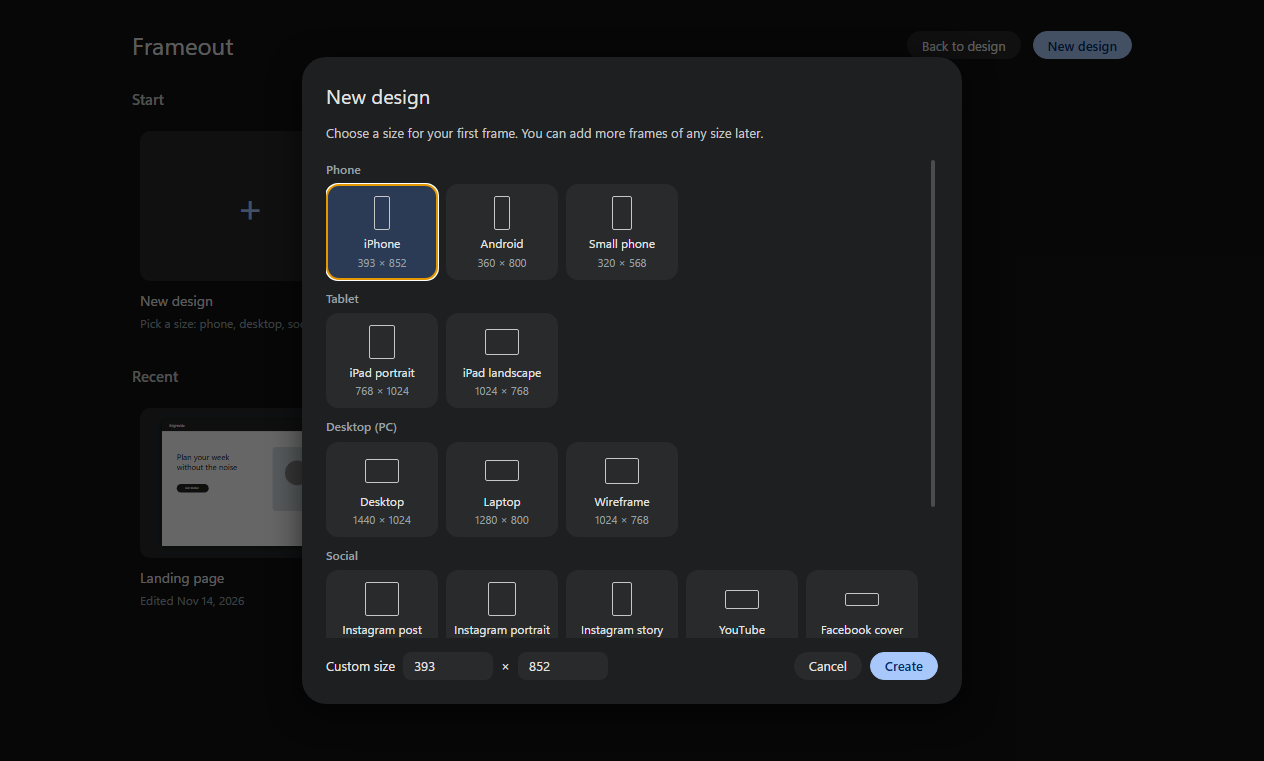
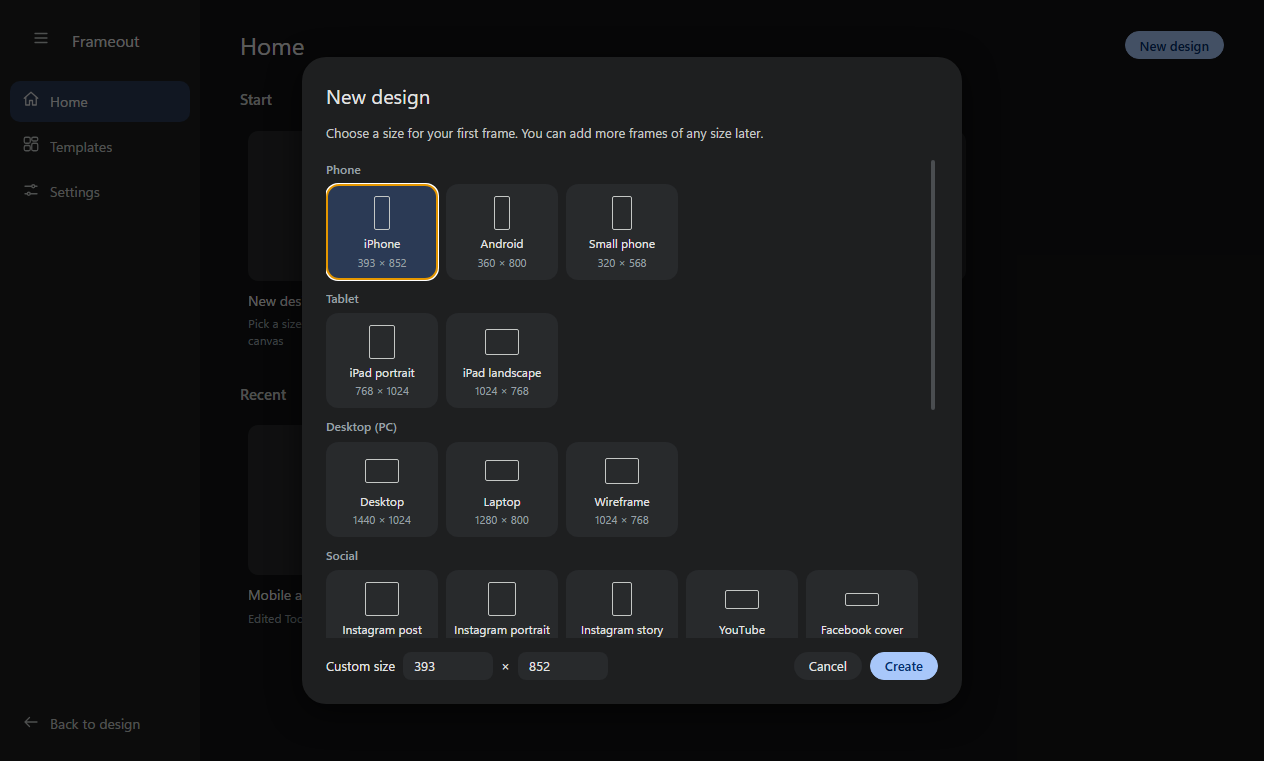
fix: Frameout 1.0.18
New line icons for Home, Templates and Settings; the New design window also lists templates; README now shows the home screen, templates and settings pictures.

diff --git a/renderer/app.js b/renderer/app.js
@@ -12,6 +12,17 @@ const h = (tag, props = {}, ...kids) => {
 };
 const NS = 'http://www.w3.org/2000/svg';
 const sv = (tag, attrs = {}) => { const e = document.createElementNS(NS, tag); for (const [k, v] of Object.entries(attrs)) e.setAttribute(k, v); return e; };
+const ICONS = {
+  home: '<path d="M3 11l9-8 9 8"/><path d="M5 10v10h5v-6h4v6h5V10"/>',
+  templates: '<rect x="3" y="3" width="8" height="8" rx="2"/><rect x="13" y="3" width="8" height="5" rx="2"/><rect x="13" y="11" width="8" height="10" rx="2"/><rect x="3" y="14" width="8" height="7" rx="2"/>',
+  settings: '<path d="M4 7h9M17 7h3M4 17h3M11 17h9"/><circle cx="15" cy="7" r="2"/><circle cx="9" cy="17" r="2"/>',
+  menu: '<path d="M4 6h16M4 12h16M4 18h16"/>',
+  back: '<path d="M10 6l-6 6 6 6M4 12h16"/>',
+  plus: '<path d="M12 5v14M5 12h14"/>',
+  open: '<path d="M3 7a2 2 0 0 1 2-2h4l2 2h8a2 2 0 0 1 2 2v8a2 2 0 0 1-2 2H5a2 2 0 0 1-2-2z"/>',
+  example: '<rect x="3" y="4" width="7" height="14" rx="2"/><rect x="14" y="6" width="7" height="14" rx="2"/><path d="M10 11h4"/>',
+};
+const icon = (name, size = 18) => { const s = sv('svg', { viewBox: '0 0 24 24', width: size, height: size, fill: 'none', stroke: 'currentColor', 'stroke-width': 1.7, 'stroke-linecap': 'round', 'stroke-linejoin': 'round', 'aria-hidden': 'true' }); const d = new DOMParser().parseFromString('<svg xmlns="' + NS + '">' + ICONS[name] + '</svg>', 'image/svg+xml').documentElement; for (const n of [...d.childNodes]) s.append(document.importNode(n, true)); return s; };
 const uid = () => Math.random().toString(36).slice(2, 8);
 const clamp = (v, a, b) => Math.min(b, Math.max(a, v));
 const toast = (m) => { const t = h('div', { class: 'toast', text: m }); document.body.append(t); setTimeout(() => t.remove(), 2400); };
@@ -465,7 +476,7 @@ function tpl(title, specs) {
   const out = doc; doc = keep; return out;
 }
 function docThumb(d) { const keep = doc; let s = ''; try { doc = d; const fr = d.items.find((i) => i.type === 'frame'); const r = exportSvgString(fr || null); s = r ? r.str : ''; } catch (e) { /* no picture */ } doc = keep; return s; }
-function newCard(icon, name, sub, fn) { return h('button', { class: 'hcard', onclick: fn }, h('div', { class: 'thumb plus' }, h('span', { text: icon })), h('div', { class: 'hname', text: name }), h('div', { class: 'hsub', text: sub })); }
+function newCard(ic, name, sub, fn) { return h('button', { class: 'hcard', onclick: fn }, h('div', { class: 'thumb plus' }, icon(ic, 40)), h('div', { class: 'hname', text: name }), h('div', { class: 'hsub', text: sub })); }
 function homeHome() {
   const recent = readRecent();
   const grid = h('div', { class: 'home-grid' });
@@ -475,9 +486,9 @@ function homeHome() {
       h('button', { class: 'btn hrm', title: 'Remove from recent', onclick: (ev) => { ev.stopPropagation(); removeRecent(e.id); }, text: 'Remove' })));
   }
   return [h('h2', { text: 'Start' }), h('div', { class: 'home-row' },
-    newCard('+', 'New design', 'Pick a size: phone, desktop, social, canvas', showSizePicker),
-    newCard('↑', 'Open file', 'A .frameout file from your computer', () => openDoc()),
-    newCard('▣', 'Example', 'Two linked mobile screens to explore', () => startDesign(sampleDoc()))),
+    newCard('plus', 'New design', 'Pick a size: phone, desktop, social, canvas', showSizePicker),
+    newCard('open', 'Open file', 'A .frameout file from your computer', () => openDoc()),
+    newCard('example', 'Example', 'Two linked mobile screens to explore', () => startDesign(sampleDoc()))),
   h('h2', { text: 'Recent' }), recent.length ? grid : h('div', { class: 'muted', style: 'padding:8px 2px', text: 'Designs you work on appear here, with a small picture, and are kept on this computer.' })];
 }
 function homeTemplates() {
@@ -499,12 +510,12 @@ function homeSettings() {
 }
 function renderHome() {
   home.textContent = '';
-  const tabs = [['home', 'Home', '⌂'], ['templates', 'Templates', '▦'], ['settings', 'Settings', '⚙']];
+  const tabs = [['home', 'Home', 'home'], ['templates', 'Templates', 'templates'], ['settings', 'Settings', 'settings']];
   const shut = getSet('sideShut');
   const side = h('nav', { class: 'home-side' + (shut ? ' shut' : '') },
-    h('div', { class: 'home-logo' }, h('button', { class: 'htab hbar', title: shut ? 'Open sidebar' : 'Close sidebar', 'aria-label': 'Toggle sidebar', onclick: () => { putSet('sideShut', !shut); renderHome(); } }, h('span', { class: 'hic', text: '☰' })), h('span', { class: 'hlabel', text: 'Frameout' })),
-    tabs.map(([id, name, ic]) => h('button', { class: 'htab' + (homeTab === id ? ' on' : ''), title: name, onclick: () => { homeTab = id; renderHome(); } }, h('span', { class: 'hic', text: ic }), h('span', { class: 'hlabel', text: name }))),
-    h('span', { class: 'grow' }), session ? h('button', { class: 'htab', onclick: closeHome }, h('span', { class: 'hic', text: '←' }), h('span', { class: 'hlabel', text: 'Back to design' })) : h('span'));
+    h('div', { class: 'home-logo' }, h('button', { class: 'htab hbar', title: shut ? 'Open sidebar' : 'Close sidebar', 'aria-label': 'Toggle sidebar', onclick: () => { putSet('sideShut', !shut); renderHome(); } }, h('span', { class: 'hic' }, icon('menu'))), h('span', { class: 'hlabel', text: 'Frameout' })),
+    tabs.map(([id, name, ic]) => h('button', { class: 'htab' + (homeTab === id ? ' on' : ''), title: name, onclick: () => { homeTab = id; renderHome(); } }, h('span', { class: 'hic' }, icon(ic)), h('span', { class: 'hlabel', text: name }))),
+    h('span', { class: 'grow' }), session ? h('button', { class: 'htab', onclick: closeHome }, h('span', { class: 'hic' }, icon('back')), h('span', { class: 'hlabel', text: 'Back to design' })) : h('span'));
   const body = homeTab === 'templates' ? homeTemplates() : homeTab === 'settings' ? homeSettings() : homeHome();
   home.append(side, h('div', { class: 'home-main' }, h('div', { class: 'home-in' },
     h('div', { class: 'home-head' }, h('h1', { text: homeTab === 'templates' ? 'Templates' : homeTab === 'settings' ? 'Settings' : 'Home' }), h('span', { class: 'grow' }), btn('New design', showSizePicker, 'primary')), ...body)));
@@ -527,6 +538,7 @@ function showSizePicker() {
   mark();
   const back = h('div', { class: 'modal-back' });
   const close = () => back.remove();
+  groups.push(h('div', {}, h('h3', { text: 'Or start from a template' }), h('div', { class: 'tiles' }, TEMPLATES.map(([name, sub, make]) => h('button', { class: 'tile', onclick: () => { close(); startDesign(make()); } }, h('span', { class: 'minibox' }, icon('templates', 24)), h('span', { class: 'tn', text: name }), h('span', { class: 'td', text: sub.split(' ').slice(0, 3).join(' ') }))))));
   const create = () => {
     let w = Math.round(+W.value), hh = Math.round(+H.value); const blank = !pick[1];
     if (!blank && (!(w >= 16 && w <= 10000) || !(hh >= 16 && hh <= 10000))) { toast('Use a width and height between 16 and 10000'); return; }

diff --git a/renderer/app.css b/renderer/app.css
@@ -39,3 +39,7 @@
 .tile .tn{font-size:12px;text-align:center}
 .tile .td{font-size:11px;color:var(--text-3)}
 .modal h3{font-size:12px;font-weight:500;color:var(--text-3);margin:4px 0 6px}
+
+.hcard .thumb.plus svg{color:var(--accent)}
+.tile .minibox svg{color:var(--text-2)}
+.hbar{color:var(--text-2)}

diff --git a/README.md b/README.md
@@ -43,6 +43,18 @@ Choose **New design** and pick a size for your first frame: phone, tablet, deskt
 
 ![New design sizes](screenshots/07-new-design.png)
 
+Below the sizes there is **Or start from a template**: pick one and you land in a ready layout.
+
+![Start from a template](screenshots/10-new-templates.png)
+
+### Templates and Settings
+
+The **Templates** tab shows every ready layout with a small picture. **Settings** has the options for opening, how many recent designs to keep, and clearing Recent.
+
+![Templates tab](screenshots/08-templates.png)
+
+![Settings tab](screenshots/09-settings.png)
+
 Press **Home** in the top bar at any time to come back to this screen. Your design is saved to Recent first.
 
 ## Try it in 3 steps
@@ -53,6 +65,8 @@ Press **Home** in the top bar at any time to come back to this screen. Your desi
 
 ## What is new
 
+**1.0.18:** cleaner line icons in the left bar and on the Start cards, and the New design window now also lists the templates.
+
 **1.0.17:** the left bar can be closed to icons only (the ☰ button) and opens again the same way; Frameout remembers your choice.
 
 **1.0.16:** the home screen has a tab bar on the left: Home, Templates and Settings.
@@ -60,41 +74,6 @@ Press **Home** in the top bar at any time to come back to this screen. Your desi
 **1.0.15:** a home screen with your recent designs and a size picker for new ones (phone, tablet, PC, Instagram and more). Duplicate, copy and delete now take everything inside a frame with them, and a copied screen is placed beside the original. Auto layout works with frames inside frames.
 
 **1.0.13:** A new look inspired by Google's own tools (AI Studio, Colab, Gemini): a calm dark charcoal theme, rounded pill buttons, a soft blue accent and roomier spacing. The app icon is now a colour logo so you can find Frameout at a glance in the Start menu and in the Lookout launcher. All screenshots below were taken again with the new look. The program now shows under its own name (not Electron) in Task Manager and the taskbar.
-
-## In plain words
-
-Frameout is a design tool for sketching **app screens and web pages** before anyone builds them. Each screen is a **frame** (a rectangle shaped like a phone, tablet or page). Inside a frame you draw rectangles, circles, lines and text, and arrange them in layers, so you can mock up a login screen or a shop page in minutes.
-
-Then comes the part that makes it a prototype: you can **link a shape to another frame**. Press Preview and click the button in your design to jump to the next screen, exactly as a real app would. You can export any screen as an image or SVG to show a client or a developer.
-
-**Not for:** Frameout is for layout sketches and click-through demos. It does not generate code and is not a photo editor.
-
-## Who it is for
-
-- **Designers and founders** who want to show an idea before it is built.
-- **Developers** who need a quick layout sketch.
-- **Students** doing interface-design assignments.
-
-## The home screen
-
-Frameout opens on a home screen. **Recent** shows the designs you worked on, each with a small picture of its first screen, its name and when you last edited it. Click one to carry on. Your work is kept automatically on this computer, so you do not have to save a file to find it again. Use **Remove** on a card to take it off the list.
-
-A bar on the left switches between three tabs. **Home** has Start and Recent. **Templates** has ready layouts to start from: mobile app, login screen, landing page, dashboard, Instagram quote and a 16:9 slide. **Settings** lets you choose whether Frameout opens on Home or on your last design, how many recent designs to keep (6, 12 or 24), and clear the Recent list.
-
-
-![Home screen](screenshots/06-home.png)
-
-Choose **New design** and pick a size for your first frame: phone, tablet, desktop (PC), Instagram post, portrait or story, YouTube thumbnail, Facebook cover, a blank canvas without a frame, or your own width and height.
-
-![New design sizes](screenshots/07-new-design.png)
-
-Press **Home** in the top bar at any time to come back to this screen. Your design is saved to Recent first.
-
-## Try it in 3 steps
-
-1. Press **New design**, pick a size, then draw a rectangle and some text inside the frame.
-2. Add a second frame and link a button in the first frame to it.
-3. Press **Preview** and click through your screens, then export one as an image.
 
 ## See it in action
 
